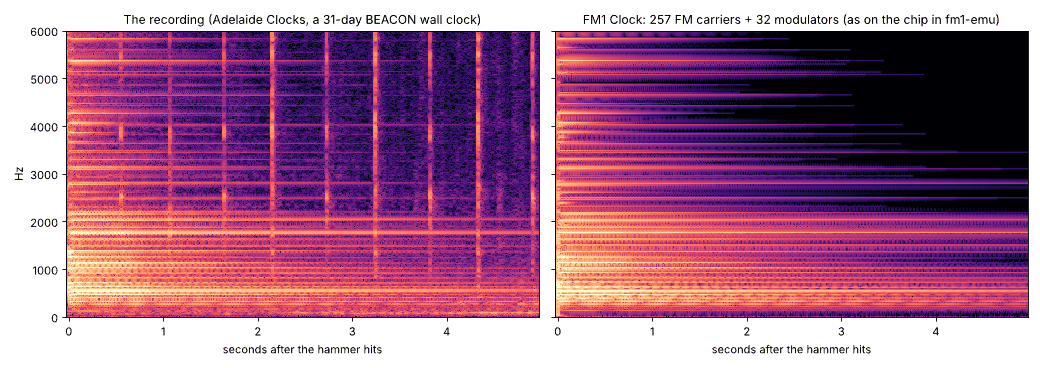
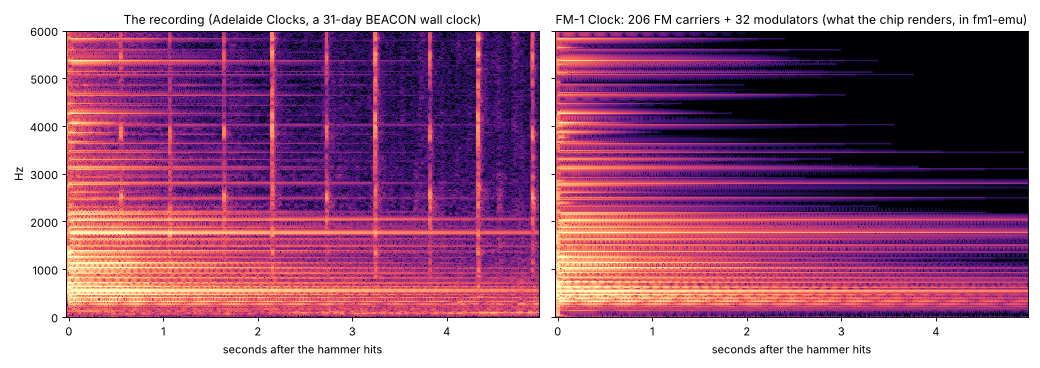
FM-1 Clock, not FM1 Clock; the README's red caution and its coffee button
The name is written FM-1 Clock everywhere it is read: the site (its title,
its installer's words), the README, the docs, the comments, the two
figures (the gong's now the 206 carriers the chip renders). The repository,
the files and the package keep fm1clock / FM-1_940.

The README's status is a red CAUTION now, as the site's: not yet tried on
an actual device; Buy me a coffee (buymeacoffee.com/skurk) at its end.

Claude-Session: https://claude.ai/code/session_01MBzS5euR2B3mDuerG2FLdG

diff --git a/web/index.html b/web/index.html
@@ -1,14 +1,14 @@
 <!doctype html>
 <!-- SPDX-License-Identifier: GPL-3.0-only
-     FM1 Clock's page and installer (web/make_site.py makes the site). The install flow follows SLOOP's installer
+     FM-1 Clock's page and installer (web/make_site.py makes the site). The install flow follows SLOOP's installer
      page (web/index_pkg.html, Copyright (C) 2026 Leo Kuroshita (@kurogedelic), Hügelton Instruments; isod89),
      its protocol is SLOOP's own, unchanged: web/fm1pkg.js, web/fm1ota.js. -->
 <html lang="en">
 <head>
 <meta charset="utf-8">
 <meta name="viewport" content="width=device-width, initial-scale=1">
-<title>FM1 Clock</title>
-<meta name="description" content="FM1 Clock: firmware for the M-VAVE FM-1. A pendulum wall clock and a cuckoo clock, every sound synthesised in FM. Install it from the browser.">
+<title>FM-1 Clock</title>
+<meta name="description" content="FM-1 Clock: firmware for the M-VAVE FM-1. A pendulum wall clock and a cuckoo clock, every sound synthesised in FM. Install it from the browser.">
 <meta name="theme-color" content="#14100c">
 <link rel="icon" href="screens/icon.png">
 <style>
@@ -73,10 +73,10 @@
 </head>
 <body>
 <main>
-  <h1>FM1 Clock</h1>
+  <h1>FM-1 Clock</h1>
   <p class="tag">Firmware for the M-VAVE FM-1: a pendulum wall clock and a cuckoo clock.</p>
 
-  <p class="warn" role="note"><b>⚠ Not yet tried on a real FM-1.</b> FM1 Clock is built and tested on every change,
+  <p class="warn" role="note"><b>⚠ Not yet tried on a real FM-1.</b> FM-1 Clock is built and tested on every change,
     in CI and in the FM-1 emulator, but it has not been tried on an actual device. Install it at your own risk.</p>
 
   <div class="hero">
@@ -146,7 +146,7 @@ python3 tools/settime.py</pre>
   </ul>
 
   <footer>
-    <p>FM1 Clock is free software under the GPL-3.0, with no warranty. It runs on
+    <p>FM-1 Clock is free software under the GPL-3.0, with no warranty. It runs on
       <a href="https://github.com/zvenson/dinghy">Dinghy</a> (zvenson), built on
       <a href="https://github.com/hugelton/Felucca">Felucca</a> by Leo Kuroshita (Hügelton Instruments) and the platform of
       <a href="https://github.com/isod89/sloop-fm1">SLOOP</a> (isod89), whose installer this page uses.</p>
@@ -164,7 +164,7 @@ const TEXT = {
   nomidi: "This browser cannot talk to the FM-1. Open the page in Chrome or Edge on a computer.",
   loadfail: "Could not load the firmware: ", badpkg: "The firmware file is damaged. Reload the page.",
   start: "Starting", verify: "Checking", loader: "Switching the FM-1 to update mode", write: "Writing",
-  reboot: "Restarting", done: "Done: FM1 Clock is installed.",
+  reboot: "Restarting", done: "Done: FM-1 Clock is installed.",
   stopped: "Stopped. Replug the USB cable and press Install again.",
   error: "Error: ",
   denied: "MIDI (SysEx) was not allowed. Allow MIDI in the site settings (the address bar) and press Install again.",
@@ -184,7 +184,7 @@ const lock = (on) => { writing = on; $("go").disabled = on || !image; };
 window.addEventListener("beforeunload", (e) => { if (writing) { e.preventDefault(); e.returnValue = TEXT.leave; } });
 $("dl").href = meta.pkg;
 $("dl").setAttribute("download", meta.pkg.split("/").pop());
-$("pkg").textContent = `FM1 Clock ${meta.version} · ${meta.product} · SHA-256 ${meta.sha256}`;
+$("pkg").textContent = `FM-1 Clock ${meta.version} · ${meta.product} · SHA-256 ${meta.sha256}`;
 (async () => {
   try {
     const sha = async (b) => [...new Uint8Array(await crypto.subtle.digest("SHA-256", b))].map((x) => x.toString(16).padStart(2, "0")).join("");
@@ -199,7 +199,7 @@ $("pkg").textContent = `FM1 Clock ${meta.version} · ${meta.product} · SHA-256 
     if (productOf(pkg) !== meta.product || (check && (await sha(pkg)) !== meta.sha256)) { say("badpkg", "", "bad"); return; }
     image = logicalImage(pkg);
     if (!navigator.requestMIDIAccess) { say("nomidi", "", "bad"); return; }
-    say(`Ready: FM1 Clock ${meta.version}.`);
+    say(`Ready: FM-1 Clock ${meta.version}.`);
     lock(false);
   } catch (e) { say("loadfail", e.message, "bad"); }
 })();

diff --git a/tests/web/install_sim.js b/tests/web/install_sim.js
@@ -1,7 +1,7 @@
 // SPDX-License-Identifier: GPL-3.0-only
 // The site's installer (web/make_site.py, web/index.html) against a simulated FM-1 on Web MIDI: the update
 // protocol's two steps (the running firmware reads some of the package and stages the loader; the loader reads all
-// of it), then the FM-1 back as FM1 Clock. Every byte the page sends is checked against the package's image. Then
+// of it), then the FM-1 back as FM-1 Clock. Every byte the page sends is checked against the package's image. Then
 // an install cut off: the FM-1 already in update mode, the page finishes it.
 //
 //   node tests/web/install_sim.js SITE_DIR        (Playwright and its Chromium)

diff --git a/tools/build.py b/tools/build.py
@@ -1,7 +1,7 @@
 #!/usr/bin/env python3
 # SPDX-License-Identifier: GPL-3.0-only
 # Copyright (C) 2026 Leo Kuroshita (@kurogedelic), Hügelton Instruments
-"""Build FM1 Clock on Dinghy (on Felucca / SLOOP's platform): the app, the update loader and an installable .fwsc package.
+"""Build FM-1 Clock on Dinghy (on Felucca / SLOOP's platform): the app, the update loader and an installable .fwsc package.
 
   tools/build.py [--release X.Y[-suffix]] [--board fm1|smk37] [--model pro|elite|mke]
 
@@ -61,7 +61,7 @@ MODELS = {"pro": "SMK-37 Pro", "elite": "SMK-37 Elite", "mke": "MKE-P37"}   # sm
 DATA_FAMILY = "FMCLOCK"             # the SMK store's owner tag (store.h): 1..7 of A-Z 0-9
 SCREEN_NAME = "FM1 CLOCK"              # the update loader's screen (FM-1, ldr_screen.c): the name and its colour (RGB565)
 SCREEN_COLOUR = 0xE526              # brass, #E0A430 (the pendulum bob)
-PRODUCT = "FM-1_940"                # FM1 Clock: 94N, not in Dinghy's list of taken ones (OUR_LOADER wants FM-1_9NN)
+PRODUCT = "FM-1_940"                # FM-1 Clock: 94N, not in Dinghy's list of taken ones (OUR_LOADER wants FM-1_9NN)
 VERSION = None                      # APP_VER for release builds
 
 
@@ -197,7 +197,7 @@ def build_app():
                                ("common/bin/objdump", "-d", elf),
                                ("common/bin/objdump", "-d", "-j", ".ram_text", elf))
     (OUT / "fm1clock.dis").write_text(dis)
-    (OUT / "fm1clock.syms").write_text(syms)    # (FM1 Clock: tools/emu_check.sh reads the engine's state by its address)
+    (OUT / "fm1clock.syms").write_text(syms)    # (FM-1 Clock: tools/emu_check.sh reads the engine's state by its address)
 
     def symv(name):
         return int(re.search(r"^([0-9a-f]+) .*\s" + name + r"$", syms, re.M).group(1), 16)

diff --git a/web/make_site.py b/web/make_site.py
@@ -1,6 +1,6 @@
 #!/usr/bin/env python3
 # SPDX-License-Identifier: GPL-3.0-only
-"""FM1 Clock's site (GitHub Pages): its page, its installer in the browser, the firmware.
+"""FM-1 Clock's site (GitHub Pages): its page, its installer in the browser, the firmware.
 
   index.html                   web/index.html with fm1pkg.js, fm1ota.js (SLOOP's, unchanged) and the metadata
                                inlined: the installer (Web MIDI, Chrome or Edge), the clocks, the links
@@ -11,7 +11,7 @@
 
   python3 web/make_site.py build/fm1clock.fwsc VERSION OUT_DIR
 
-The package must be an FM1 Clock one: its identity FM-1_94N, its Felucca update loader in it (which the installer
+The package must be an FM-1 Clock one: its identity FM-1_94N, its Felucca update loader in it (which the installer
 talks to). Made after SLOOP's web/make_site.py (Copyright (C) 2026 Leo Kuroshita (@kurogedelic), Hügelton
 Instruments; isod89).
 """
@@ -43,7 +43,7 @@ def main(pkg, version, out):
     raw = pkg.read_bytes()
     product = product_of(raw)
     if not re.fullmatch(r"FM-1_94\d", product):
-        raise SystemExit(f"{pkg}: identity {product!r} is not FM1 Clock's (FM-1_94N)")
+        raise SystemExit(f"{pkg}: identity {product!r} is not FM-1 Clock's (FM-1_94N)")
     if b"FELUCCA-LOADER-1" not in raw:
         raise SystemExit(f"{pkg}: no Felucca update loader in it: the installer could not write it")
     name = f"fm1clock-{re.sub(r'[^A-Za-z0-9.-]', '-', version)}.fwsc"

diff --git a/firmware/src/clk_draw.h b/firmware/src/clk_draw.h
@@ -1,5 +1,5 @@
 /* SPDX-License-Identifier: GPL-3.0-only */
-/* FM1 Clock's pictures, for two clocks, both on one panel wall. The wall clock: the design as the background
+/* FM-1 Clock's pictures, for two clocks, both on one panel wall. The wall clock: the design as the background
  * (firmware/gen/clk_art.h, tools/gen_art.py), and over it what moves: the hands (polygons, 4 x 4 samples a pixel) and the pendulum (the rod,
  * the bob with its own shading, both behind the glass: its reflections and the gold go over them). The cuckoo clock:
  * this firmware's own, carved in walnut (firmware/gen/clk_art_cuckoo.h, tools/gen_art_cuckoo.py), with its big ivory

diff --git a/firmware/src/fm1clock.c b/firmware/src/fm1clock.c
@@ -1,5 +1,5 @@
 /* SPDX-License-Identifier: GPL-3.0-only */
-/* FM1 Clock: the most useless firmware for the M-VAVE FM-1. Two clocks that keep the time, swing their pendulums and
+/* FM-1 Clock: the most useless firmware for the M-VAVE FM-1. Two clocks that keep the time, swing their pendulums and
  * tick at both ends of the swing. The wall clock (a 31-day pendulum clock) ticks every half second and strikes the
  * hours (and one at the half hour) on an FM gong fitted to a recording of a real one. The cuckoo clock (a Black
  * Forest 1-day clock) beats faster, and at the hour opens its door: the bird calls the hours on two FM pipes (one

diff --git a/firmware/src/clk_engine.h b/firmware/src/clk_engine.h
@@ -1,5 +1,5 @@
 /* SPDX-License-Identifier: GPL-3.0-only */
-/* FM1 Clock's sound, in the audio interrupt, for two clocks: a gong of FM carriers (the first K_FM with a modulator
+/* FM-1 Clock's sound, in the audio interrupt, for two clocks: a gong of FM carriers (the first K_FM with a modulator
  * each), two banks of NT sine operators for the ticks and the mechanism's clicks, and for the cuckoo clock its two
  * pipes (an FM pair each, with their body partials), every one of them computed in every frame, sounding or not.
  * That is the point: the chip is full, all of the time. A governor keeps it full and no fuller: it measures each

diff --git a/tools/settime.py b/tools/settime.py
@@ -1,6 +1,6 @@
 #!/usr/bin/env python3
 # SPDX-License-Identifier: GPL-3.0-only
-"""Set FM1 Clock to this computer's time over USB-MIDI: CC 20 the hours, CC 21 the minutes, CC 22 the seconds (any
+"""Set FM-1 Clock to this computer's time over USB-MIDI: CC 20 the hours, CC 21 the minutes, CC 22 the seconds (any
 channel), the seconds sent the moment that second begins. The clock takes the time when the seconds come (to its
 half second: the pendulum keeps its swing).
 

diff --git a/tools/gen_art_cuckoo.py b/tools/gen_art_cuckoo.py
@@ -1,6 +1,6 @@
 #!/usr/bin/env python3
 # SPDX-License-Identifier: GPL-3.0-only
-"""FM1 Clock's own cuckoo clock, drawn from nothing, and the panel wall all its clocks hang on:
+"""FM-1 Clock's own cuckoo clock, drawn from nothing, and the panel wall all its clocks hang on:
 firmware/gen/clk_art_cuckoo.h.
 
   python3 tools/gen_art_cuckoo.py [--check] [--preview OUT.png]     (Pillow, numpy)

diff --git a/LICENSING.md b/LICENSING.md
@@ -1,6 +1,6 @@
 # Licensing
 
-FM1 Clock, like Dinghy under it, is free software under the GNU General Public License, version 3 only (`GPL-3.0-only`, full text in
+FM-1 Clock, like Dinghy under it, is free software under the GNU General Public License, version 3 only (`GPL-3.0-only`, full text in
 `LICENSE`). You may use, study, change and share it. If you give someone a firmware built from it, give them its
 complete source under the same licence too.
 
@@ -15,7 +15,7 @@ complete source under the same licence too.
 | From OberVave: the storage (blobs, slots), `LCD_IDLE`, the SMK-37 wiring of `platform.c`, `store.h`, the pad event queue in `smk_input.h`, `tests/smk_flash_test.c`, `tests/run_tests.sh`, the CI workflow | Copyright (C) 2026 zvenson |
 | The wiring `platform.c`, the host mode `tests/host.c`, Dinghy's docs (`docs/`) | zvenson |
 | The browser installer's protocol: `web/fm1pkg.js`, `web/fm1ota.js` (unchanged, from [SLOOP](https://github.com/isod89/sloop-fm1) `bac9c05`); the install flow of `web/index.html` and the shape of `web/make_site.py`, after SLOOP's `web/index_pkg.html` and `web/make_site.py` | Copyright (C) 2026 Leo Kuroshita (@kurogedelic), Hügelton Instruments (Felucca), with the changes of SLOOP (isod89) |
-| FM1 Clock: `firmware/src/fm1clock.c` (from Dinghy's `dinghy.c`), `clk_engine.h`, `clk_draw.h`, `firmware/gen/clk_*.h`, `tools/analyze_ref.py`, `features.py`, `fit_model.py`, `gen_tables.py`, `gen_art.py`, `settime.py`, `emu_ci.sh`, `emu_check.sh`, `tests/run_clock.sh`, `tests/clk/`, `tests/scripts/` (the clock's), `tests/ref/`, `tests/web/`, the page `web/index.html` and `web/make_site.py` (but for what is SLOOP's in them, above), `README.md`, `docs/SOUND.md`, `docs/CUCKOO.md`, `docs/HOW-IT-WORKS.md`, `docs/screens/`, `PLATFORM.md` | Copyright (C) 2026 Joakim (joakimskurk) |
+| FM-1 Clock: `firmware/src/fm1clock.c` (from Dinghy's `dinghy.c`), `clk_engine.h`, `clk_draw.h`, `firmware/gen/clk_*.h`, `tools/analyze_ref.py`, `features.py`, `fit_model.py`, `gen_tables.py`, `gen_art.py`, `settime.py`, `emu_ci.sh`, `emu_check.sh`, `tests/run_clock.sh`, `tests/clk/`, `tests/scripts/` (the clock's), `tests/ref/`, `tests/web/`, the page `web/index.html` and `web/make_site.py` (but for what is SLOOP's in them, above), `README.md`, `docs/SOUND.md`, `docs/CUCKOO.md`, `docs/HOW-IT-WORKS.md`, `docs/screens/`, `PLATFORM.md` | Copyright (C) 2026 Joakim (joakimskurk) |
 
 ## Third-party material
 
@@ -26,7 +26,7 @@ complete source under the same licence too.
 
 ## The design and the recording
 
-`assets/design.png` is FM1 Clock's design, by its author (joakimskurk); `firmware/gen/clk_art.h` is made from it
+`assets/design.png` is FM-1 Clock's design, by its author (joakimskurk); `firmware/gen/clk_art.h` is made from it
 (`tools/gen_art.py`) and goes with the firmware under its licence.
 
 The sound is fitted to a recording, *Clock Strike Chime Sound 31x Day BEACON Pendulum Wall Item 1125*, by Adelaide
@@ -37,9 +37,9 @@ them (`tools/clk_model.json`). No sample of it is in the firmware: every sound i
 ## The logo
 
 `assets/logo.svg` / `logo.png` carry the designburg signet: Copyright (C) designburg, all rights reserved, not under
-the GPL. It marks Dinghy itself; FM1 Clock does not use it as its own.
+the GPL. It marks Dinghy itself; FM-1 Clock does not use it as its own.
 
 ## Trademarks
 
 "Felucca" and "Hügelton Instruments" are names of Hügelton Instruments; "M-VAVE", "FM-1", "SMK-37" and "MKE-P37"
-belong to their owners. Dinghy and FM1 Clock are not made or endorsed by them.
+belong to their owners. Dinghy and FM-1 Clock are not made or endorsed by them.

diff --git a/README.md b/README.md
@@ -1,4 +1,4 @@
-# FM1 Clock for the M-VAVE FM-1
+# FM-1 Clock for the M-VAVE FM-1
 
 Before we know it the FM-1 will be an almost forgotten treasure. So here is something that looks completely
 useless now, and may one day turn out to be its only useful function: a clock.
@@ -12,8 +12,10 @@ wall.
 <p align="center"><img src="docs/screens/pendulum.gif" width="360" alt="The clock on the FM-1's screen, on a pine panel wall: the hands at ten past ten, the pendulum swinging from side to side behind the glass">
 <img src="docs/screens/cuckoo.gif" width="200" alt="The cuckoo clock at three o'clock on the same wall: a carved house in dark red walnut, leaves along its roof and a crest of leaves at the peak, vines round an ivory dial with serif numbers, turned columns, fretwork under its shelf; its bird comes out and calls, its leaf-shaped pendulum swings"></p>
 
-> **Status: 0.1, in progress.** Built and run in CI (in fm1-emu, the FM-1 emulator), the sound tested against the
-> recordings on a computer, and now being tried on a real FM-1.
+> [!CAUTION]
+> **Not yet tried on a real FM-1.** Version 0.1, in progress: built and tested on every change, in CI and in
+> fm1-emu (the FM-1 emulator), the sound tested against the recordings on a computer, but it has not been tried on
+> an actual device. Install it at your own risk.
 
 A [Dinghy 0.5](https://github.com/zvenson/dinghy) app, from the family of
 [VaveHero](https://github.com/joakimskurk/fm1vavehero), [RoboSeq](https://github.com/joakimskurk/fm1roboseq) and
@@ -97,7 +99,7 @@ python3 web/make_site.py build/fm1clock.fwsc VERSION build/site   # the web page
 - **[How it works](docs/HOW-IT-WORKS.md):** keeping time from the crystal, drawing the picture, the tests and CI,
   the web page and its installer, making the tables again, and what is where.
 
-<p align="center"><img src="docs/screens/gong-spectrogram.png" width="820" alt="Two spectrograms side by side, the recording and FM1 Clock, the first five seconds after a strike, 0 to 6 kHz: the same series of partials and the same decay; the recording also shows its ticks as vertical lines and the room's noise"></p>
+<p align="center"><img src="docs/screens/gong-spectrogram.png" width="820" alt="Two spectrograms side by side, the recording and FM-1 Clock, the first five seconds after a strike, 0 to 6 kHz: the same series of partials and the same decay; the recording also shows its ticks as vertical lines and the room's noise"></p>
 
 ## Platform, licence and credits
 
@@ -110,3 +112,5 @@ python3 web/make_site.py build/fm1clock.fwsc VERSION build/site   # the web page
   clock. Only measurements of them are here.
 - **Thanks** to joakimeriksson for [fm1-emu](https://github.com/joakimeriksson/fm1-emu).
 - **Trademarks.** "M-VAVE" and "FM-1" belong to their owners. This is a fan project, not an official M-VAVE product.
+
+<p align="center"><a href="https://buymeacoffee.com/skurk"><img alt="Buy Me a Coffee" src="https://img.shields.io/badge/Buy%20Me%20a%20Coffee-skurk-FFDD00?logo=buymeacoffee&logoColor=black"></a></p>

diff --git a/docs/SOUND.md b/docs/SOUND.md
@@ -12,7 +12,7 @@ of it (`tools/ref_model.json`, `tests/ref/features.json`), made by `tools/analyz
 
 | Time | What is in it |
 |---|---|
-| 0–15.5 s | The clock ticking. Its tick and tock come 0.578 s and 0.511 s apart in turn: that clock is a little out of beat. FM1 Clock ticks evenly, every 0.5 s. |
+| 0–15.5 s | The clock ticking. Its tick and tock come 0.578 s and 0.511 s apart in turn: that clock is a little out of beat. FM-1 Clock ticks evenly, every 0.5 s. |
 | 15.65 s | **One strike, on its own** (a half hour). This is what the gong's model is measured from. |
 | 25.6–37.5 s | **Eleven strikes** (eleven o'clock), 1.192 s apart. This is what the strike train is measured from. |
 
@@ -65,7 +65,7 @@ A ringing mode is a *damped sinusoid*: a frequency, a level, a phase, and a deca
 into *sidebands* above and below it, spaced by the modulator's frequency, and the sound gets brighter and harsher.
 A classic FM bell uses a handful of operators at strange ratios and lets the index fall after the attack.
 
-FM1 Clock does the same thing, at a much larger scale:
+FM-1 Clock does the same thing, at a much larger scale:
 
 - **Every measured mode is a carrier**, at its own frequency, level, phase and decay: up to 742 carriers.
 - **The 32 strongest have a modulator each.** Their index is high at the moment the hammer hits and falls within
@@ -135,7 +135,7 @@ noise counted. The numbers are the root mean square of the differences over the 
 
 A difference of 1 dB in a band is about the smallest change of loudness most people can hear.
 
-<p align="center"><img src="screens/gong-spectrogram.png" width="820" alt="Two spectrograms side by side, the recording and FM1 Clock, the first five seconds after a strike, 0 to 6 kHz: the same series of partials and the same decay; the recording also shows its ticks as vertical lines and the room's noise"></p>
+<p align="center"><img src="screens/gong-spectrogram.png" width="820" alt="Two spectrograms side by side, the recording and FM-1 Clock, the first five seconds after a strike, 0 to 6 kHz: the same series of partials and the same decay; the recording also shows its ticks as vertical lines and the room's noise"></p>
 
 ## Using the whole chip
 
